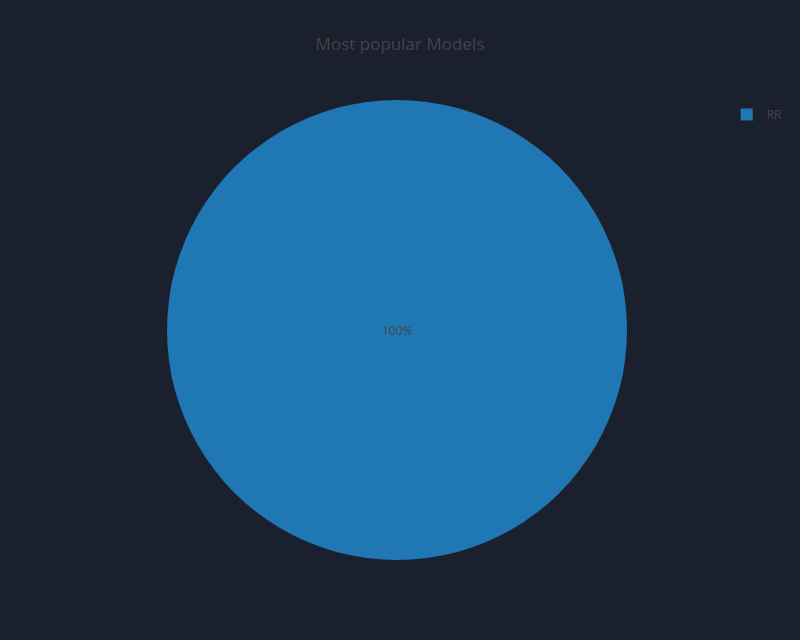
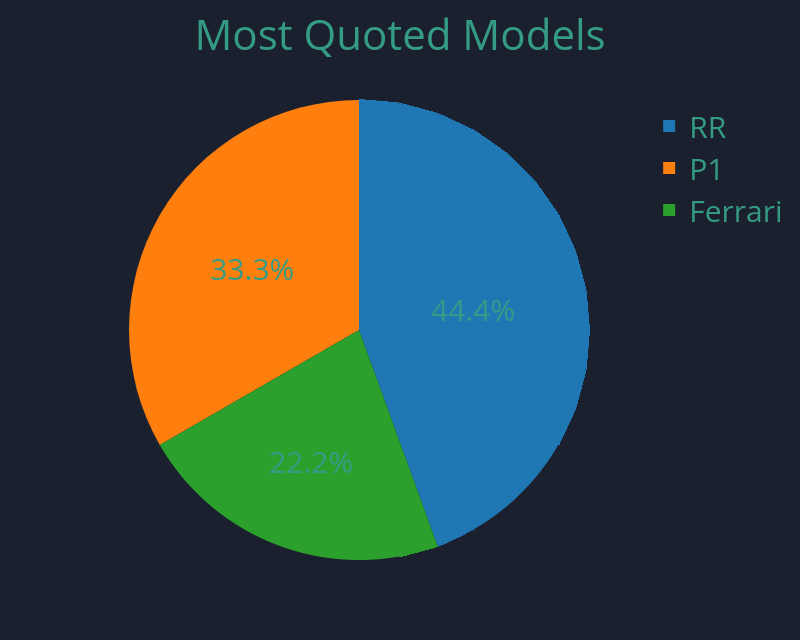
createGraph creates graph on homeView loadtime.

diff --git a/my_mrp/my_mrp/views.py b/my_mrp/my_mrp/views.py
@@ -6,33 +6,9 @@ from django.views.generic.base import TemplateView
 from vehicle_quote.models import VehicleQuote
 
 
-class HomeView(TemplateView):
-    """Make the HomeView class."""
-
-    template_name = 'generic/home.html'
-    context_object_name = 'quotes'
-
-    # def get_queryset(self, **kwargs):
-    #     """Get the context to display."""
-    #     username = self.request.user.get_username()
-    #     quotes = Quote.objects.filter(user__username=username)
-
-    #     return quotes
-
-    # def get_context_data(self, **kwargs):
-    #     """Filter the context for display."""
-    #     context = super().get_context_data(**kwargs)
-    #     quotes = context['quotes'][0]
-
-    #     context.update({
-    #         'quotes': quotes,
-    #     })
-
-    #     return context
-
-
 # Generates Graph based on Data.
 def createGraph():
+    """Creates Visual for most popular models quoted."""
     vehicles = {}
     colors = {}
     car_models = VehicleQuote.objects.all()
@@ -44,25 +20,35 @@ def createGraph():
     try:
         # Uses Plotly's API
         plotly.tools.set_credentials_file(username='kiirby', api_key='TdfP7ccHINP4BI76EDNj')
-
-        trace = go.Pie(labels=list(vehicles.keys()), values=list(vehicles.values()))
+        trace = go.Pie(
+            labels=list(vehicles.keys()),
+            values=list(vehicles.values())
+        )
         # GRAPH DIMENSION.
-        layout = go.Layout(title='Most popular Models', width=800, height=640, paper_bgcolor='rgb(27, 32, 46)')
+        layout = go.Layout(
+            title='Most Quoted Models',
+            width=800, height=640,
+            paper_bgcolor='rgb(27, 32, 46)',
+            font=dict(color='rgb(52, 156, 134)', size=30)
+        )
         graph = go.Figure(data=[trace], layout=layout)
-
         # Creates graph and saves it to the project.
-        print('----------------------------------------------')
-        print(graph)
+        print('-' * 45)
         py.image.save_as(graph, filename='my_mrp/static/popular_models.png')
-        print(graph)
-
         py.image.ishow(graph)
-
     except:
-        return False
         print('[!] FATAL ERROR')
+        return False
     finally:
         print('[*] Finished Executing PLOTLY/DB Queries.')
-        print('----------------------------------------------')
+        print('-' * 45)
 
-createGraph()
+
+class HomeView(TemplateView):
+    """Make the HomeView class."""
+    template_name = 'generic/home.html'
+    context_object_name = 'quotes'
+
+    def get_context_data(self):
+        createGraph()
+        return {}

diff --git a/my_mrp/vehicle_quote/views.py b/my_mrp/vehicle_quote/views.py
@@ -116,20 +116,3 @@ class QuoteDetailView(LoginRequiredMixin, DetailView):
         """Get context."""
         context = super().get_context_data(**kwargs)
         return context
-
-
-# class QuoteEditView(LoginRequiredMixin, UpdateView):
-#     """Define the quote edit view."""
-
-#     template_name = 'vehicle_quote/quote_edit.html'
-#     model = VehicleQuote
-#     form_class = VehicleQuoteForm
-#     login_url = reverse_lazy('auth_login')
-#     success_url = reverse_lazy('library')
-#     pk_url_kwarg = 'id'
-
-#     def get_form_kwargs(self):
-#         """Get the form data that is submitted by the quote to update the quote."""
-#         kwargs = super().get_form_kwargs()
-#         kwargs.update({'username': self.request.user.username})
-#         return kwargs
